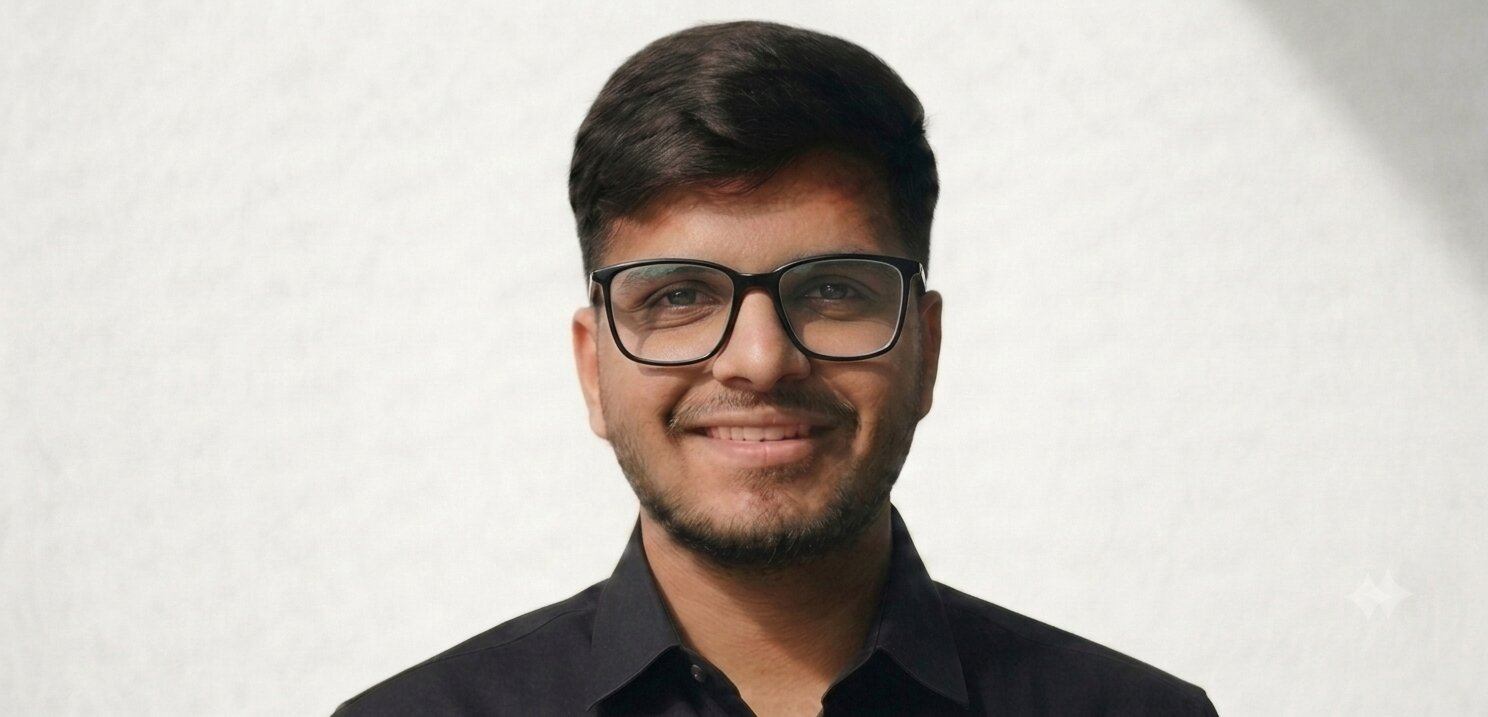
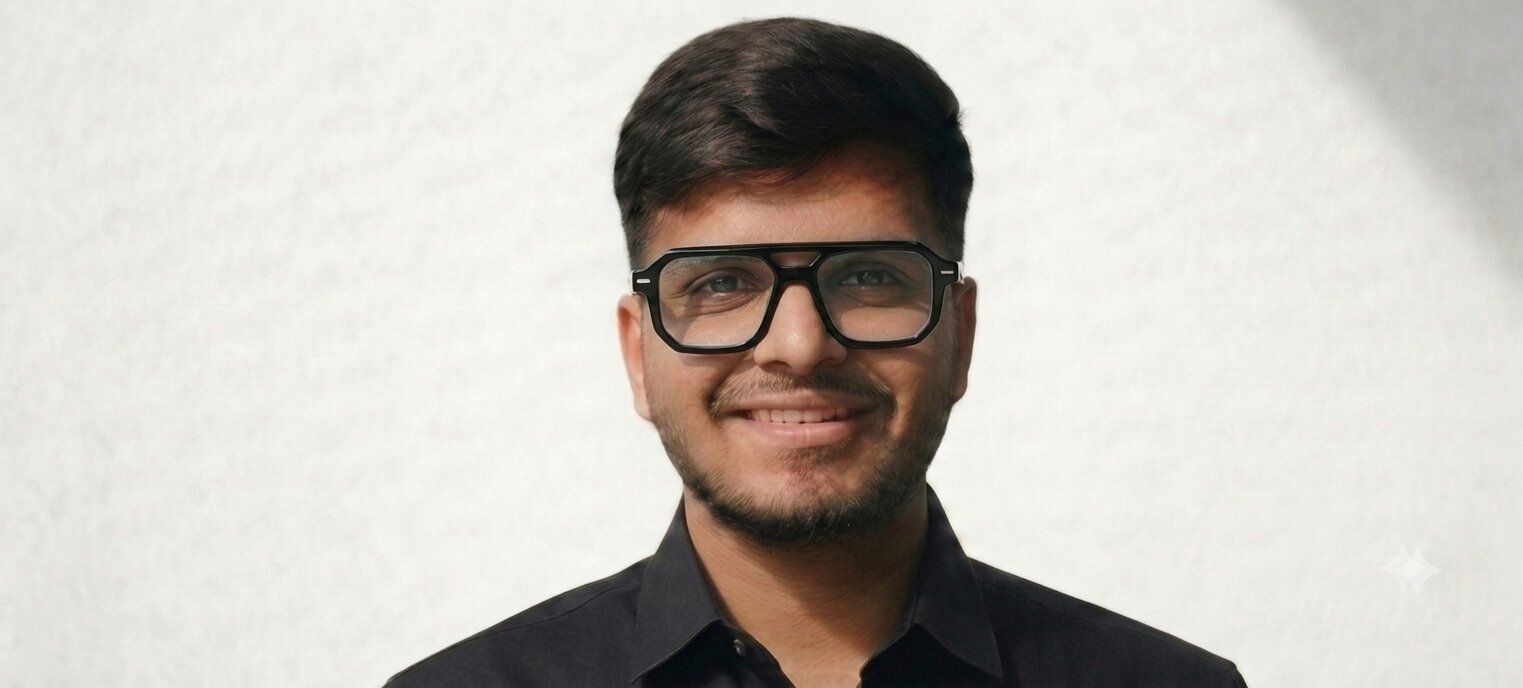
refactor: update profile image and hero layout
- Replace avatar image with updated version
- Remove location metadata from Hero section
- Adjust portrait aspect ratio and container dimensions

diff --git a/src/context/PortfolioContext.tsx b/src/context/PortfolioContext.tsx
@@ -97,42 +97,62 @@ export function PortfolioProvider({ children }: { children: React.ReactNode }) {
     return PERSONAL_INFO;
   });
 
+  const sanitizeProjectsList = (projs: any[]): Project[] => {
+    let list = [...projs];
+    
+    // Ensure all default projects are present
+    PROJECTS.forEach((dp) => {
+      const index = list.findIndex((p) => p.id === dp.id);
+      if (index === -1) {
+        list.push(dp);
+      }
+    });
+
+    return list.map((p: any) => {
+      const defaultProj = PROJECTS.find((dp) => dp.id === p.id);
+      if (defaultProj) {
+        let updated = { ...p };
+        // Always force the official default images for all default projects to ensure high-quality, up-to-date thumbnails are displayed
+        updated.image = defaultProj.image;
+        // If the saved demoUrl is the old default top-level link, upgrade it
+        if (p.id === 'private-law-colleges' && (!p.demoUrl || p.demoUrl === 'https://www.barandbench.com' || p.demoUrl === 'https://www.barandbench.com/')) {
+          updated.demoUrl = defaultProj.demoUrl;
+        }
+        if (p.id === 'judicial-independence' && (!p.demoUrl || p.demoUrl === 'https://www.ijllr.com' || p.demoUrl === 'https://www.ijllr.com/')) {
+          updated.demoUrl = defaultProj.demoUrl;
+        }
+        if (p.id === 'writ-jurisdiction' && (!p.demoUrl || p.demoUrl === 'https://www.manupatra.com' || p.demoUrl === 'https://www.manupatra.com/')) {
+          updated.demoUrl = defaultProj.demoUrl;
+        }
+        if (p.id === 'patent-claim-modification' && (!p.demoUrl || p.demoUrl === 'https://theippress.com' || p.demoUrl === 'https://theippress.com/')) {
+          updated.demoUrl = defaultProj.demoUrl;
+        }
+        if (p.id === 'unconventional-trademarks' && (!p.demoUrl || p.demoUrl === 'https://theippress.com' || p.demoUrl === 'https://theippress.com/')) {
+          updated.demoUrl = defaultProj.demoUrl;
+        }
+        if (p.id === 'ai-governance' && (!p.demoUrl || p.demoUrl === 'https://www.pj.gob.pe' || p.demoUrl === 'https://www.pj.gob.pe/')) {
+          updated.demoUrl = defaultProj.demoUrl;
+        }
+        return updated;
+      }
+      
+      // For any custom/user-added articles, ensure they also have a high-quality fallback thumbnail if missing
+      if (!p.image || typeof p.image !== 'string' || p.image.trim() === '') {
+        return {
+          ...p,
+          image: 'https://images.unsplash.com/photo-1450133064473-71024230f91b?auto=format&fit=crop&w=800&q=80'
+        };
+      }
+      return p;
+    });
+  };
+
   const [projects, setProjects] = useState<Project[]>(() => {
     try {
       const saved = localStorage.getItem('rahul_goyal_projects');
       if (saved) {
         const parsed = JSON.parse(saved);
-        return parsed.map((p: any) => {
-          const defaultProj = PROJECTS.find((dp) => dp.id === p.id);
-          if (defaultProj) {
-            let updated = { ...p };
-            // Force the official default images for default projects unless it's a custom base64 uploaded image (starts with data:)
-            if (!p.image || p.image.includes('images.unsplash.com') || (!p.image.startsWith('data:') && p.image !== defaultProj.image && !p.image.startsWith('/'))) {
-              updated.image = defaultProj.image;
-            }
-            // If the saved demoUrl is the old default top-level link, upgrade it
-            if (p.id === 'private-law-colleges' && (!p.demoUrl || p.demoUrl === 'https://www.barandbench.com' || p.demoUrl === 'https://www.barandbench.com/')) {
-              updated.demoUrl = defaultProj.demoUrl;
-            }
-            if (p.id === 'judicial-independence' && (!p.demoUrl || p.demoUrl === 'https://www.ijllr.com' || p.demoUrl === 'https://www.ijllr.com/')) {
-              updated.demoUrl = defaultProj.demoUrl;
-            }
-            if (p.id === 'writ-jurisdiction' && (!p.demoUrl || p.demoUrl === 'https://www.manupatra.com' || p.demoUrl === 'https://www.manupatra.com/')) {
-              updated.demoUrl = defaultProj.demoUrl;
-            }
-            if (p.id === 'patent-claim-modification' && (!p.demoUrl || p.demoUrl === 'https://theippress.com' || p.demoUrl === 'https://theippress.com/')) {
-              updated.demoUrl = defaultProj.demoUrl;
-            }
-            if (p.id === 'unconventional-trademarks' && (!p.demoUrl || p.demoUrl === 'https://theippress.com' || p.demoUrl === 'https://theippress.com/')) {
-              updated.demoUrl = defaultProj.demoUrl;
-            }
-            if (p.id === 'ai-governance' && (!p.demoUrl || p.demoUrl === 'https://www.pj.gob.pe' || p.demoUrl === 'https://www.pj.gob.pe/')) {
-              updated.demoUrl = defaultProj.demoUrl;
-            }
-            return updated;
-          }
-          return p;
-        });
+        return sanitizeProjectsList(parsed);
       }
     } catch (e) {
       console.error('Error loading custom projects:', e);
@@ -188,9 +208,10 @@ export function PortfolioProvider({ children }: { children: React.ReactNode }) {
               }
             }
             if (remoteData.projects) {
-              setProjects(remoteData.projects);
+              const sanitizedProjects = sanitizeProjectsList(remoteData.projects);
+              setProjects(sanitizedProjects);
               try {
-                localStorage.setItem('rahul_goyal_projects', JSON.stringify(remoteData.projects));
+                localStorage.setItem('rahul_goyal_projects', JSON.stringify(sanitizedProjects));
               } catch (e) {
                 console.error('LocalStorage save failed:', e);
               }
@@ -279,7 +300,7 @@ export function PortfolioProvider({ children }: { children: React.ReactNode }) {
       newPersonalInfo.avatar = PERSONAL_INFO.avatar;
     }
     setPersonalInfo(newPersonalInfo);
-    setProjects(newProjects);
+    setProjects(sanitizeProjectsList(newProjects));
   };
 
   return (

diff --git a/src/components/Hero.tsx b/src/components/Hero.tsx
@@ -219,20 +219,6 @@ export default function Hero({ onContactClick, onPortfolioClick }: HeroProps) {
 
 
 
-            {/* Meta Tags (Location & Main Focus) */}
-            {personalInfo.location && (
-              <motion.div
-                id="hero-metadata"
-                variants={itemVariants}
-                className="flex items-center gap-y-2 gap-x-6 text-[11px] text-neutral-400 font-mono uppercase tracking-wider"
-              >
-                <div className="flex items-center space-x-2 bg-neutral-50 border border-brand-200/50 px-3.5 py-1.5 rounded-none shadow-none">
-                  <span className="w-1.5 h-1.5 rounded-full bg-emerald-500 animate-pulse"></span>
-                  <span className="text-brand-600 font-bold">{personalInfo.location}</span>
-                </div>
-              </motion.div>
-            )}
-
             {/* Social Links */}
             <motion.div id="hero-social-links" variants={itemVariants} className="flex items-center space-x-3 pt-2">
               <a
@@ -291,7 +277,7 @@ export default function Hero({ onContactClick, onPortfolioClick }: HeroProps) {
             className="md:col-span-5 flex justify-center md:justify-end"
           >
             <div 
-              className={`relative group w-full max-w-[250px] xs:max-w-[280px] sm:max-w-[320px] md:max-w-[300px] lg:max-w-[340px] xl:max-w-[380px] aspect-square select-none ${
+              className={`relative group w-full max-w-[240px] xs:max-w-[270px] sm:max-w-[310px] md:max-w-[290px] lg:max-w-[330px] xl:max-w-[360px] aspect-[4/5] select-none ${
                 personalInfo.introVideo ? 'cursor-pointer' : 'cursor-default'
               }`}
             >
@@ -312,15 +298,15 @@ export default function Hero({ onContactClick, onPortfolioClick }: HeroProps) {
                   )}
                   {personalInfo.avatar && (
                     <img
-                      id="hero-portrait-img"
-                      src={personalInfo.avatar.startsWith('data:') ? personalInfo.avatar : `${personalInfo.avatar}?v=${avatarVersion}`}
-                      alt={personalInfo.name}
-                      referrerPolicy="no-referrer"
-                      onLoad={() => setAvatarLoadError(false)}
-                      onError={() => setAvatarLoadError(true)}
-                      className={`w-full h-full object-cover transition-all duration-700 ease-out scale-100 group-hover:scale-108 group-active:scale-108 filter group-hover:brightness-[1.03] group-active:brightness-[1.03] relative z-10 ${
-                        avatarLoadError ? 'opacity-0 invisible' : 'opacity-100 visible'
-                      }`}
+                       id="hero-portrait-img"
+                       src={personalInfo.avatar.startsWith('data:') ? personalInfo.avatar : `${personalInfo.avatar}?v=${avatarVersion}`}
+                       alt={personalInfo.name}
+                       referrerPolicy="no-referrer"
+                       onLoad={() => setAvatarLoadError(false)}
+                       onError={() => setAvatarLoadError(true)}
+                       className={`w-full h-full object-cover object-[center_25%] transition-all duration-700 ease-out scale-100 group-hover:scale-108 group-active:scale-108 filter group-hover:brightness-[1.03] group-active:brightness-[1.03] relative z-10 ${
+                         avatarLoadError ? 'opacity-0 invisible' : 'opacity-100 visible'
+                       }`}
                     />
                   )}
 
@@ -349,7 +335,7 @@ export default function Hero({ onContactClick, onPortfolioClick }: HeroProps) {
                         referrerPolicy="no-referrer"
                         onLoad={() => setAvatarLoadError(false)}
                         onError={() => setAvatarLoadError(true)}
-                        className={`w-full h-full object-cover transition-all duration-700 ease-out scale-100 group-hover:scale-108 group-active:scale-108 filter group-hover:brightness-[1.03] group-active:brightness-[1.03] ${
+                        className={`w-full h-full object-cover object-[center_25%] transition-all duration-700 ease-out scale-100 group-hover:scale-108 group-active:scale-108 filter group-hover:brightness-[1.03] group-active:brightness-[1.03] ${
                           avatarLoadError ? 'opacity-0 invisible' : 'opacity-100 visible'
                         }`}
                       />
@@ -371,12 +357,6 @@ export default function Hero({ onContactClick, onPortfolioClick }: HeroProps) {
                   <span>Intro Video</span>
                 </div>
               )}
-
-              {/* Minimal floating tech accent */}
-              <div className="absolute -bottom-4 -left-4 bg-white border border-brand-200 px-3 py-1.5 rounded-none shadow-none flex items-center space-x-2 font-mono text-[9px] tracking-widest">
-                <span className="w-1.5 h-1.5 rounded-full bg-emerald-500"></span>
-                <span className="text-brand-600 font-bold">Based in New Delhi, India</span>
-              </div>
             </div>
           </motion.div>
         </motion.div>

diff --git a/src/components/Portfolio.tsx b/src/components/Portfolio.tsx
@@ -68,9 +68,14 @@ export default function Portfolio() {
               <div className="relative overflow-hidden aspect-video bg-neutral-100 cursor-pointer" onClick={() => setActiveProject(project)}>
                 <img
                   id={`project-img-${project.id}`}
-                  src={project.image}
+                  src={project.image || 'https://images.unsplash.com/photo-1450133064473-71024230f91b?auto=format&fit=crop&w=800&q=80'}
                   alt={project.title}
                   referrerPolicy="no-referrer"
+                  onError={(e) => {
+                    const target = e.target as HTMLImageElement;
+                    target.onerror = null;
+                    target.src = 'https://images.unsplash.com/photo-1450133064473-71024230f91b?auto=format&fit=crop&w=800&q=80';
+                  }}
                   className="w-full h-full object-cover grayscale group-hover:grayscale-0 scale-100 group-hover:scale-102 transition-all duration-500"
                 />
                 {/* Category overlay */}
@@ -195,17 +200,22 @@ export default function Portfolio() {
                 <div className="relative aspect-video w-full bg-neutral-200 border-b border-neutral-200">
                   <img
                     id="modal-project-img"
-                    src={activeProject.image}
+                    src={activeProject.image || 'https://images.unsplash.com/photo-1450133064473-71024230f91b?auto=format&fit=crop&w=800&q=80'}
                     alt={activeProject.title}
                     referrerPolicy="no-referrer"
+                    onError={(e) => {
+                      const target = e.target as HTMLImageElement;
+                      target.onerror = null;
+                      target.src = 'https://images.unsplash.com/photo-1450133064473-71024230f91b?auto=format&fit=crop&w=800&q=80';
+                    }}
                     className="w-full h-full object-cover"
                   />
-                  <div className="absolute inset-0 bg-gradient-to-t from-black/80 via-black/20 to-transparent"></div>
-                  <div className="absolute bottom-6 left-6 right-6 text-white">
-                    <h3 className="font-sans text-2xl sm:text-3xl font-extralight tracking-tight mb-1">
+                  <div className="absolute inset-0 bg-gradient-to-t from-black/90 via-black/30 to-transparent"></div>
+                  <div className="absolute bottom-4 left-4 right-4 sm:bottom-6 sm:left-6 sm:right-6 text-white">
+                    <h3 className="font-sans text-lg xs:text-xl sm:text-3xl font-extralight tracking-tight mb-1 leading-tight">
                       {activeProject.title}
                     </h3>
-                    <p className="text-xs text-neutral-200 max-w-xl font-light">
+                    <p className="text-[10px] sm:text-xs text-neutral-200 max-w-xl font-light line-clamp-2 sm:line-clamp-none">
                       {activeProject.description}
                     </p>
                   </div>
@@ -246,10 +256,10 @@ export default function Portfolio() {
                       <h4 className="text-xs uppercase tracking-[0.2em] font-bold text-neutral-900 border-b border-neutral-200 pb-2">
                         Writing Details
                       </h4>
-                      <div className="grid grid-cols-3 gap-4">
+                      <div className="grid grid-cols-1 sm:grid-cols-3 gap-3 sm:gap-4">
                         {activeProject.stats.map((stat) => (
-                          <div key={stat.label} className="bg-[#f5f5f5] border border-neutral-200 p-4 text-center rounded-none">
-                            <span className="block text-neutral-900 font-sans text-lg font-light">
+                          <div key={stat.label} className="bg-[#f5f5f5] border border-neutral-200 p-3 sm:p-4 text-center rounded-none">
+                            <span className="block text-neutral-900 font-sans text-base sm:text-lg font-light">
                               {stat.value}
                             </span>
                             <span className="block text-neutral-400 text-[8px] font-mono uppercase tracking-widest mt-0.5">

diff --git a/src/components/Navigation.tsx b/src/components/Navigation.tsx
@@ -46,20 +46,8 @@ export default function Navigation({ activeSection, setActiveSection }: Navigati
       }`}
     >
       <div className="max-w-6xl mx-auto px-6 flex items-center justify-between">
-        {/* Logo */}
-        {personalInfo.name.toLowerCase() !== 'rahul goyal' ? (
-          <button
-            id="nav-logo"
-            onClick={() => handleNavClick('about')}
-            className="group flex flex-col items-start cursor-pointer text-left"
-          >
-            <span className="font-display text-lg font-bold tracking-tight text-brand-900 leading-none">
-              {personalInfo.name}
-            </span>
-          </button>
-        ) : (
-          <div className="w-4 h-4" />
-        )}
+        {/* Empty spacer to maintain layout balance */}
+        <div className="w-5 h-5" />
 
         {/* Desktop Nav */}
         <nav id="desktop-nav" className="hidden md:flex items-center gap-10 text-[11px] uppercase tracking-[0.2em] font-semibold">

diff --git a/src/data/portfolio.ts b/src/data/portfolio.ts
@@ -26,7 +26,7 @@ export const PROJECTS: Project[] = [
     description: 'A comparative cross-border legal study analyzing the regulatory frameworks, governance systems, and AI applications in mitigating environmental challenges in India and Peru.',
     longDescription: 'This peer-reviewed comparative research paper explores how artificial intelligence can be integrated into environmental sustainability governance. It contrasts India’s legislative mechanisms and digital initiatives with Peru’s environmental policy frameworks, evaluating the role of judicial bodies, constitutional guidelines, and regulatory authorities in enforcing AI-driven environmental mandates.',
     tags: ['Artificial Intelligence', 'Environmental Law', 'Comparative Governance', 'Policy Reform'],
-    image: 'https://images.unsplash.com/photo-1451187580459-43490279c0fa?auto=format&fit=crop&w=800&q=80',
+    image: 'https://images.unsplash.com/photo-1466611653911-95081537e5b7?auto=format&fit=crop&w=800&q=80',
     demoUrl: 'https://revistas.pj.gob.pe/revista/index.php/ropj/article/view/1138', // Revista Oficial del Poder Judicial
     highlights: [
       'Published in the REVISTA OFICIAL DEL PODER JUDICIAL (Official Journal of the Judicial Branch of Peru).',
@@ -47,7 +47,7 @@ export const PROJECTS: Project[] = [
     description: 'An in-depth analysis of color, sound, smell, and motion trademarks, discussing how progressive IP law impacts modern corporate branding and consumer perception.',
     longDescription: 'Unconventional trademarks represent the active frontier of intellectual property. This research analysis explores registration hurdles, distinctiveness requirements, and commercial implications of non-visual and sensory marks under Indian and international trademark regimes, charting how they integrate with corporate branding.',
     tags: ['Trademark Law', 'Intellectual Property', 'Branding Strategy', 'Anti-Dissection Rule'],
-    image: 'https://images.unsplash.com/photo-1434030216411-0b793f4b4173?auto=format&fit=crop&w=800&q=80',
+    image: 'https://images.unsplash.com/photo-1513542789411-b6a5d4f31634?auto=format&fit=crop&w=800&q=80',
     demoUrl: 'https://www.theippress.com/2024/12/01/how-do-unconventional-trademarks-impact-branding-and-marketing-strategies/',
     highlights: [
       'Deconstructed the "Anti-Dissection" and "Dominant Feature" principles in the context of complex multi-sensory brand assets.',
@@ -67,7 +67,7 @@ export const PROJECTS: Project[] = [
     description: 'A critical review of recent judicial trends in Indian patent law, examining modern standards for amending and modifying patent claims during prosecution.',
     longDescription: 'Patent claims define the legal boundaries of technological protection. This study examines recent landmark orders from the Delhi High Court and the Indian Patent Office regarding patent amendments under Section 59 of the Indian Patents Act, clarifying the permissible scope of claim modifications to withstand prior art challenges.',
     tags: ['Patent Law', 'Claim Modification', 'Delhi High Court', 'Patent Prosecution'],
-    image: 'https://images.unsplash.com/photo-1589829545856-d10d557cf95f?auto=format&fit=crop&w=800&q=80',
+    image: 'https://images.unsplash.com/photo-1581092160607-ee22621dd758?auto=format&fit=crop&w=800&q=80',
     demoUrl: 'https://www.theippress.com/2024/10/01/trailblazing-decisions-transform-indian-patent-law-a-new-chapter-of-adaptability-in-claim-modification/',
     highlights: [
       'Investigated the legal boundaries of Section 59 of the Indian Patents Act, 1970.',
@@ -87,7 +87,7 @@ export const PROJECTS: Project[] = [
     description: 'A comprehensive constitutional study on the maintainability of writ petitions under Article 226 when alternative statutory remedies exist.',
     longDescription: 'Writ jurisdiction is a powerful constitutional remedy of High Courts. This article examines self-imposed judicial restrictions, exploring the circumstances under which alternative statutory remedies block writ jurisdiction, and cataloging exceptions established by the Supreme Court of India.',
     tags: ['Constitutional Law', 'Writ Jurisdiction', 'Article 226', 'Judicial Precedents'],
-    image: 'https://images.unsplash.com/photo-1505664194779-8bebcb95ae84?auto=format&fit=crop&w=800&q=80',
+    image: 'https://images.unsplash.com/photo-1589829545856-d10d557cf95f?auto=format&fit=crop&w=800&q=80',
     demoUrl: 'https://articles.manupatra.com/article-details/EXISTENCE-OF-ALTERNATIVE-REMEDY-AS-AN-OBSTACLE-FOR-AVAILING-WRIT-JURISDICTION',
     highlights: [
       'Published on the Manupatra research database, widely referenced by litigation practitioners.',
@@ -107,7 +107,7 @@ export const PROJECTS: Project[] = [
     description: 'A deep academic inquiry into the structural, financial, and functional independence of the Indian judiciary, exploring constitutional safeguards and contemporary challenges.',
     longDescription: 'Judicial independence is a cornerstone of the basic structure of the Indian Constitution. This paper investigates appointment mechanisms (Collegium system vs. NJAC), security of tenure, financial autonomy, and functional separation of powers, evaluating modern pressures and reforms.',
     tags: ['Constitutional Law', 'Judiciary', 'Basic Structure', 'Appointment Reform'],
-    image: 'https://images.unsplash.com/photo-1521587760476-6c12a4b040da?auto=format&fit=crop&w=800&q=80',
+    image: 'https://images.unsplash.com/photo-1450133064473-71024230f91b?auto=format&fit=crop&w=800&q=80',
     demoUrl: 'https://www.ijllr.com/post/extensive-study-on-independence-of-judiciary', // Indian Journal of Law and Legal Research
     highlights: [
       'Published in the Indian Journal of Law and Legal Research (IJLLR) with ISSN: 2582-8878.',

diff --git a/src/components/Contact.tsx b/src/components/Contact.tsx
@@ -5,9 +5,7 @@ import { usePortfolio } from '../context/PortfolioContext';
 export default function Contact() {
   const { personalInfo } = usePortfolio();
 
-  const showLocation = personalInfo.location && 
-    personalInfo.location.toLowerCase() !== 'new delhi, india' && 
-    personalInfo.location.toLowerCase() !== 'new delhi';
+  const showLocation = !!personalInfo.location;
 
   return (
     <section id="contact" className="py-20 md:py-28 border-t border-brand-200 bg-[#fcfcfc] relative scroll-mt-20">